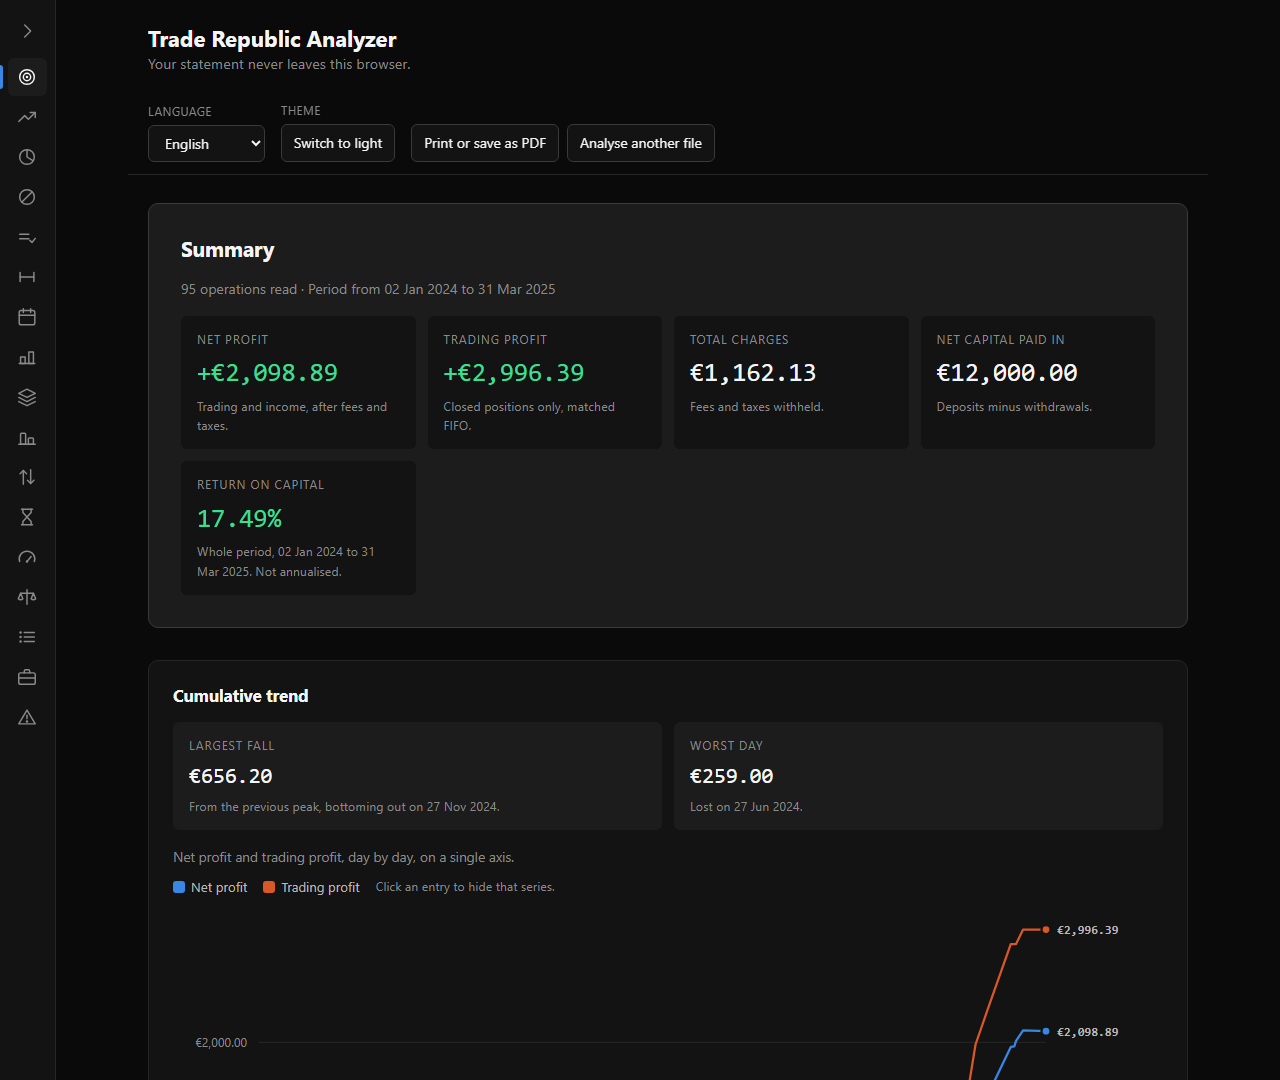
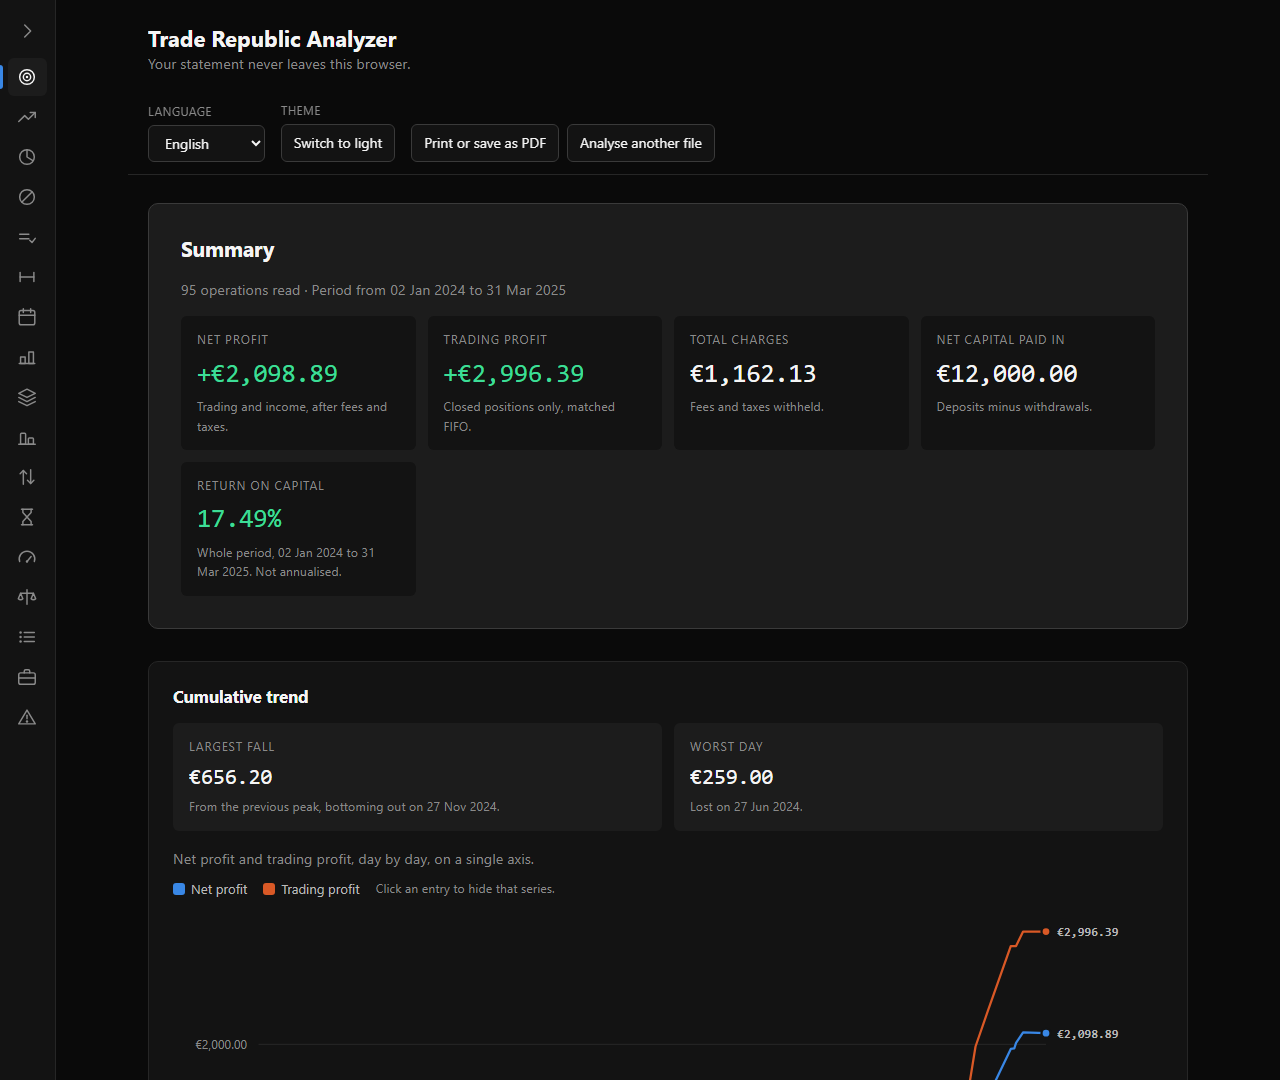
style(ui): widen the reading measure of the section prose
`ch` is a fraction of the font, not of the card. At 0.85rem one `ch` is
about 7.2px, so the 68ch cap stopped a paragraph at roughly 490px inside
a 1000px section: less than half the card, reading as a stray narrow
column beside the full-width chart it describes.

92ch of a 0.9rem font reaches about three quarters of the card and stays
inside the ninety-character ceiling where the eye still finds the next
line — filling the card outright would take about 137ch, which trades one
unreadable paragraph for another.

Both prose rules move together, `.section__meta, .note` and
`.figure__description, .figure__empty`: they meet in every section, and a
single cap would end a section's two paragraphs in two columns.

Print is unaffected, where `#app` drops its max-width altogether. The
demo images are regenerated because they show the old measure.

diff --git a/src/ui/app.css b/src/ui/app.css
@@ -712,11 +712,21 @@ summary:focus-visible,
   margin: 4px 0 0;
 }
 
+/*
+ * Prose inside a section.
+ *
+ * The measure is a cap on the line, not a column: at 68ch of a 0.875rem font a
+ * paragraph stopped less than halfway across a 1000px card and read as a stray
+ * narrow block beside the full-width chart it describes. 92ch of a slightly
+ * larger font reaches about three quarters of the card — long enough to look
+ * deliberate, short enough that the eye still finds the next line.
+ */
 .section__meta,
 .note {
-  font-size: 0.875rem;
+  font-size: 0.9rem;
+  line-height: 1.55;
   color: var(--ink-muted);
-  max-width: 68ch;
+  max-width: 92ch;
 }
 
 .banner {
@@ -908,11 +918,15 @@ summary:focus-visible,
   font-size: 0.95rem;
 }
 
+/* The caption of a chart that spans the card: same measure as the prose above
+   it, so the two paragraphs of a section end on the same line rather than in
+   two different columns. */
 .figure__description,
 .figure__empty {
-  font-size: 0.85rem;
+  font-size: 0.9rem;
+  line-height: 1.55;
   color: var(--ink-muted);
-  max-width: 68ch;
+  max-width: 92ch;
 }
 
 .figure__controls {
